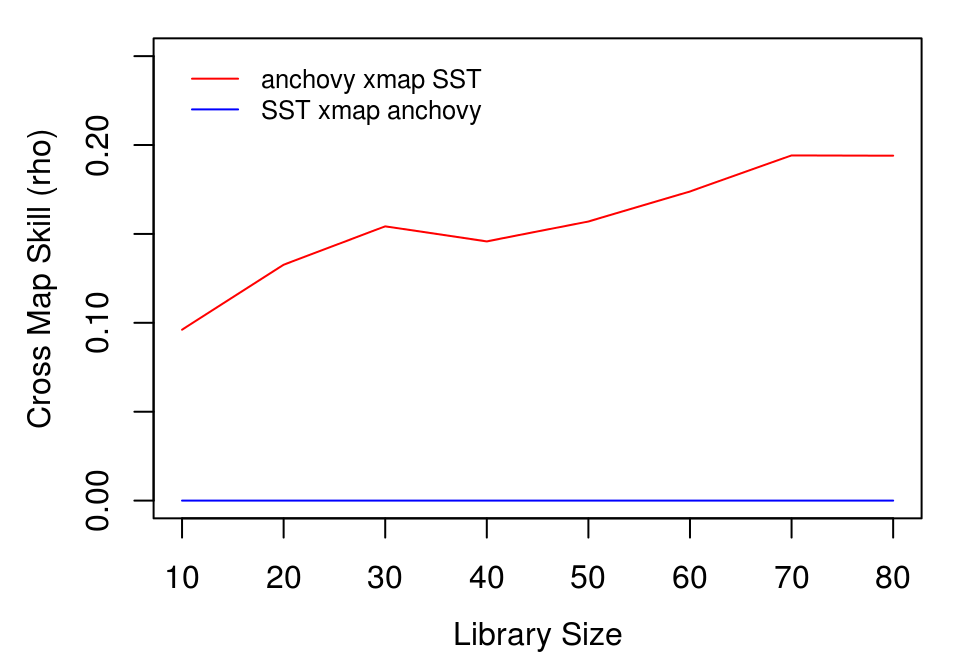
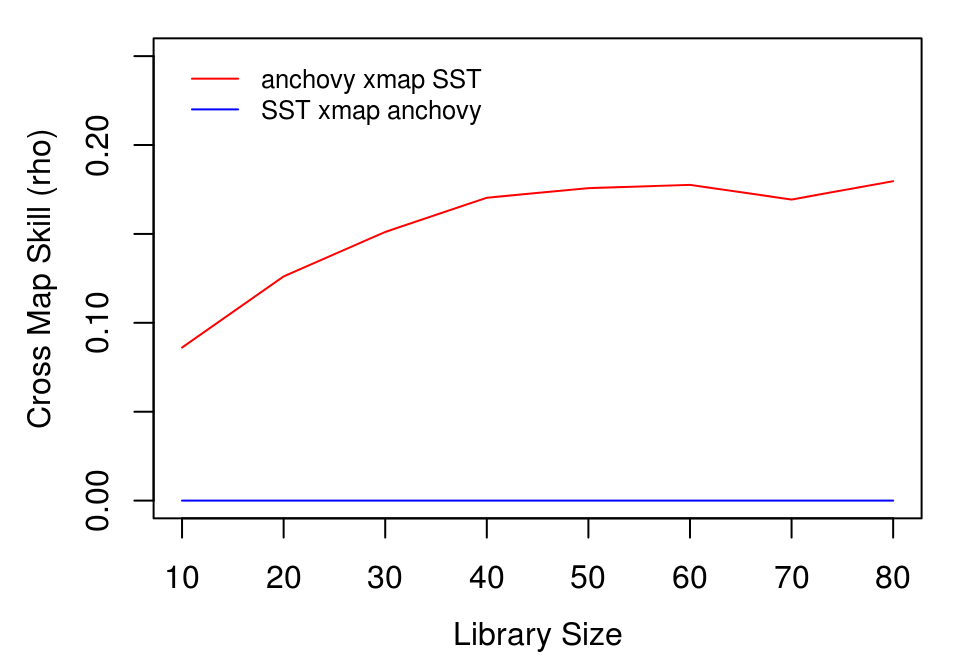
Deploy ha0ye/rEDM to github.com/ha0ye/rEDM.git:gh-pages

diff --git a/articles/rEDM.html b/articles/rEDM.html
@@ -487,9 +487,9 @@
 ##  $ target_column: Factor w/ 1 level "np_sst": 1 1 1 1 1 1 1 1 1 1 ...
 ##  $ lib_size     : num  10 10 10 10 10 10 10 10 10 10 ...
 ##  $ num_pred     : num  76 76 76 76 76 76 76 76 76 76 ...
-##  $ rho          : num  -0.01736 0.00309 0.22319 -0.33676 0.38151 ...
-##  $ mae          : num  0.866 0.901 0.821 0.91 0.809 ...
-##  $ rmse         : num  1.06 1.14 1.05 1.14 1.01 ...</code></pre>
+##  $ rho          : num  0.1429 0.2366 0.1057 -0.0882 0.0922 ...
+##  $ mae          : num  1.034 0.999 0.818 1.134 0.881 ...
+##  $ rmse         : num  1.27 1.22 1.05 1.43 1.13 ...</code></pre>
 <p>The output is a data.frame with statistics for each model run (in this case, 100 models at each of 8 library sizes). To interpret the results, we aggregate the cross map performance at each library size using the <code><a href="../reference/ccm_means.html">ccm_means()</a></code> function, which computes a mean value at each unique <code>lib_size</code>. Because average cross map skill less than 0 means there is no prediction skill, (predictions should not be anticorrelated with observations), we set negative values to 0 when plotting.</p>
 <div class="sourceCode" id="cb35"><pre class="sourceCode r"><code class="sourceCode r"><a class="sourceLine" id="cb35-1" data-line-number="1">a_xmap_t_means &lt;-<span class="st"> </span><span class="kw"><a href="../reference/ccm_means.html">ccm_means</a></span>(anchovy_xmap_sst)</a>
 <a class="sourceLine" id="cb35-2" data-line-number="2">t_xmap_a_means &lt;-<span class="st"> </span><span class="kw"><a href="../reference/ccm_means.html">ccm_means</a></span>(sst_xmap_anchovy)</a>
